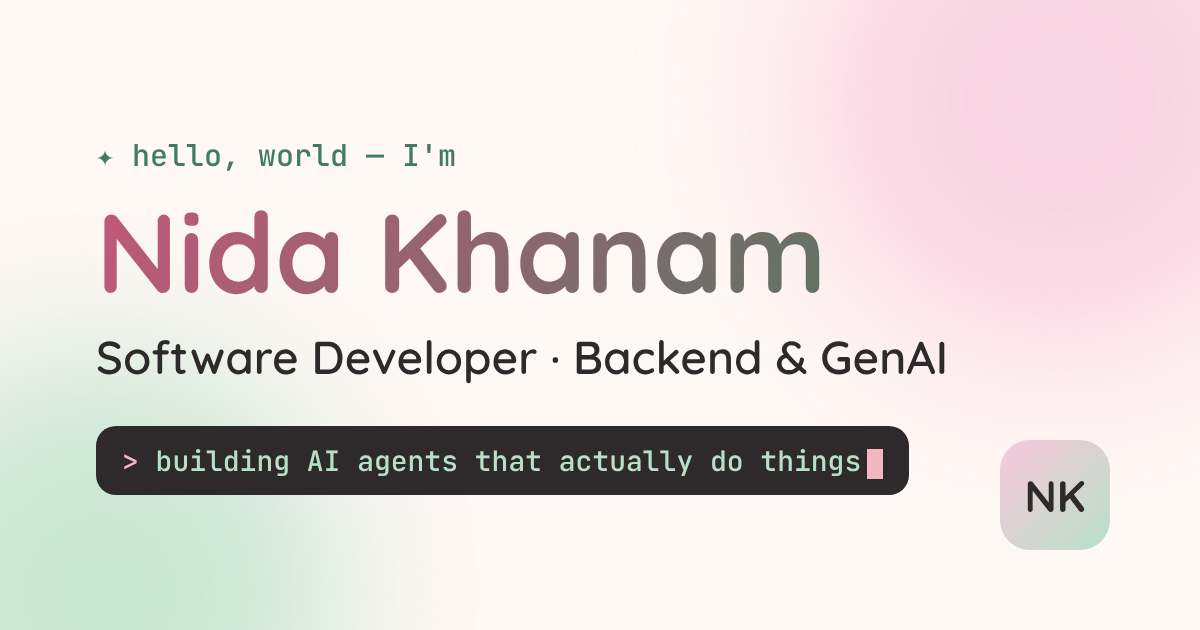
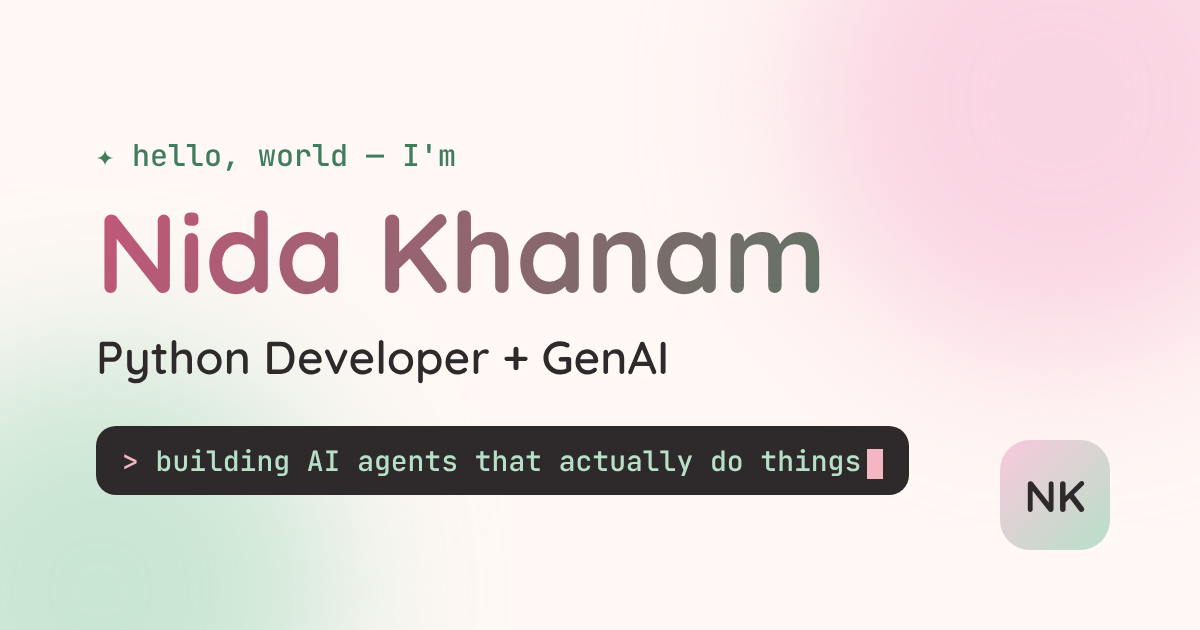
Hero subtitle: Python Developer + GenAI; cache-bust CSS/JS
Claude-Session: https://claude.ai/code/session_01SZVc4HvYHr7dQmfoWvh2py

Changed region(s): [[0.0617, 0.5429, 0.8017, 0.6032]]

diff --git a/index.html b/index.html
@@ -3,23 +3,23 @@
 <head>
   <meta charset="UTF-8" />
   <meta name="viewport" content="width=device-width, initial-scale=1" />
-  <title>Nida Khanam · Software Developer · Backend &amp; GenAI</title>
-  <meta name="description" content="Nida Khanam is a Software Developer in Hyderabad building scalable Python/Django backends, event-driven pipelines and GenAI / agentic AI systems (RAG, LLM agents, tool calling)." />
+  <title>Nida Khanam · Python Developer + GenAI</title>
+  <meta name="description" content="Nida Khanam is a Python Developer + GenAI at Infosys in Hyderabad, building scalable Python/Django backends, event-driven pipelines and GenAI / agentic AI systems (RAG, LLM agents, tool calling)." />
   <meta name="author" content="Nida Khanam" />
   <meta name="theme-color" content="#FFF8F5" media="(prefers-color-scheme: light)" />
   <meta name="theme-color" content="#1E1424" media="(prefers-color-scheme: dark)" />
 
   <!-- Open Graph / social preview (update og:url after you publish) -->
   <meta property="og:type" content="website" />
-  <meta property="og:title" content="Nida Khanam · Software Developer · Backend & GenAI" />
+  <meta property="og:title" content="Nida Khanam · Python Developer + GenAI" />
   <meta property="og:description" content="I build scalable backends and I'm now building AI agents that actually do things." />
   <meta property="og:url" content="https://nidakhanam.github.io/" />
   <meta property="og:image" content="https://nidakhanam.github.io/assets/og-image.png" />
   <meta property="og:image:width" content="1200" />
   <meta property="og:image:height" content="630" />
-  <meta property="og:image:alt" content="Nida Khanam — Software Developer, Backend & GenAI" />
+  <meta property="og:image:alt" content="Nida Khanam — Python Developer + GenAI" />
   <meta name="twitter:card" content="summary_large_image" />
-  <meta name="twitter:title" content="Nida Khanam · Software Developer · Backend & GenAI" />
+  <meta name="twitter:title" content="Nida Khanam · Python Developer + GenAI" />
   <meta name="twitter:description" content="I build scalable backends and I'm now building AI agents that actually do things." />
   <meta name="twitter:image" content="https://nidakhanam.github.io/assets/og-image.png" />
 
@@ -29,7 +29,7 @@
   <link rel="preconnect" href="https://fonts.googleapis.com" />
   <link rel="preconnect" href="https://fonts.gstatic.com" crossorigin />
   <link href="https://fonts.googleapis.com/css2?family=Quicksand:wght@500;600;700&family=Inter:wght@400;500;600&family=JetBrains+Mono:wght@400;500&display=swap" rel="stylesheet" />
-  <link rel="stylesheet" href="styles.css" />
+  <link rel="stylesheet" href="styles.css?v=3" />
 
   <!-- Apply saved / system theme before paint to avoid a flash -->
   <script>
@@ -41,7 +41,7 @@
       document.documentElement.classList.add("js");
     })();
   </script>
-  <script src="script.js" defer></script>
+  <script src="script.js?v=3" defer></script>
 </head>
 <body>
   <a class="skip-link" href="#main">Skip to content</a>
@@ -86,7 +86,7 @@
       <div class="hero__text">
         <p class="eyebrow"><span aria-hidden="true">✨</span> hello, world — I'm</p>
         <h1 id="hero-title" class="hero__name">Nida Khanam</h1>
-        <p class="hero__title">Software Developer <span class="dot" aria-hidden="true">·</span> Backend &amp; GenAI</p>
+        <p class="hero__title">Python Developer <span class="dot" aria-hidden="true">+</span> GenAI</p>
         <p class="hero__tagline">I build scalable backends and I'm now building <strong>AI agents that actually do things.</strong></p>
 
         <div class="hero__actions">
@@ -114,7 +114,7 @@
       </div>
 
       <!-- Fake terminal window -->
-      <div class="terminal glass" role="img" aria-label="Terminal: whoami prints Nida Khanam, Software Developer. cat skills.txt prints Python, Django, GenAI, RAG, Agents, Kafka.">
+      <div class="terminal glass" role="img" aria-label="Terminal: whoami prints Nida Khanam, Python Developer + GenAI. cat skills.txt prints Python, Django, GenAI, RAG, Agents, Kafka.">
         <div class="terminal__bar" aria-hidden="true">
           <span class="tdot tdot--pink"></span>
           <span class="tdot tdot--cream"></span>

diff --git a/script.js b/script.js
@@ -64,7 +64,7 @@ const PROJECTS = [
    ========================================================================== */
 const TERMINAL_LINES = [
   { type: "prompt", text: "> whoami" },
-  { type: "out", text: "Nida Khanam — Software Developer 💻🌸" },
+  { type: "out", text: "Nida Khanam — Python Developer + GenAI 💻🌸" },
   { type: "prompt", text: "> cat skills.txt" },
   { type: "out", text: "Python · Django · GenAI · RAG · Agents · Kafka" },
   { type: "prompt", text: "> echo $CURRENT_FOCUS" },
